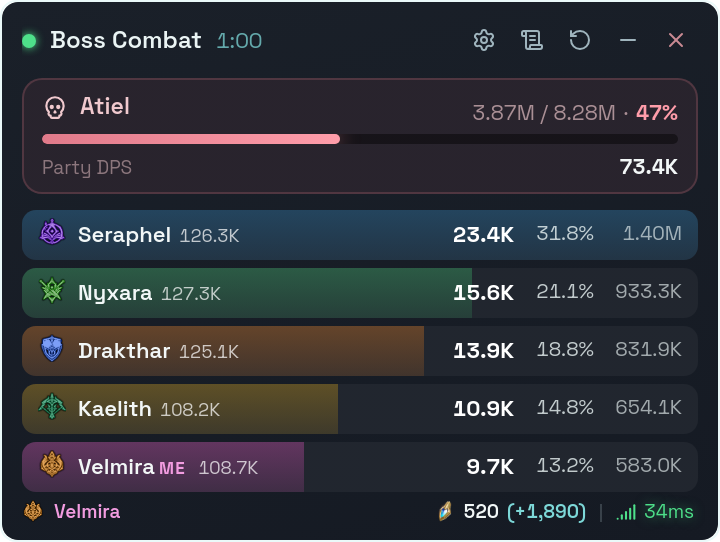
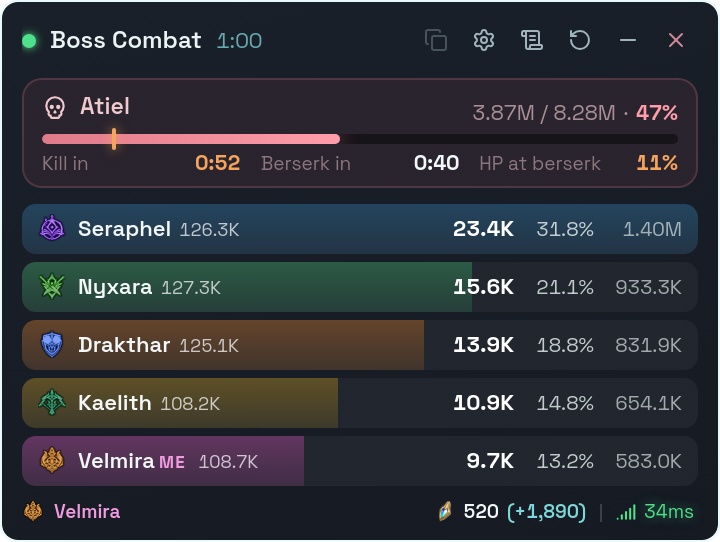
Update README.md to include berserk timer feature and enhance overlay image description

diff --git a/README.md b/README.md
@@ -17,6 +17,7 @@ Live overlay in game · one-click logs on abysslogs.com · all six regions · fr
 
 - **Live DPS bars** with class, combat power or gear score, and share of damage
 - **Boss HP and party DPS** on the boss card
+- **Berserk timer**: kill time against the boss's berserk, and its HP when berserk hits
 - **eDPS or aDPS**: the whole fight, or active time only
 - **Player breakdown**: targets, skills, crit, back, front, parry, perfect, double and multi-hit rates
 - **Skill Spy**: the specialities behind every skill
@@ -28,7 +29,9 @@ Live overlay in game · one-click logs on abysslogs.com · all six regions · fr
 - **Fight history** on your PC, dungeon runs grouped, searchable by player and dungeon
 - **Party only** and **boss only** capture
 - **Hotkeys** to hide the overlay and reset the fight
+- **Fight summary** copied as text for party chat, by button or hotkey
 - **Focus mode, opacity and UI scale** up to 200%
+- **Hide player names** for streaming: everyone else shows as their class
 - **Footer** with your character, Odyle Energy and ping
 - **Nine languages, six regions**, and it works through VPNs and ping reducers
 - **One-click updates** with the changelog built in
@@ -46,7 +49,7 @@ Live overlay in game · one-click logs on abysslogs.com · all six regions · fr
 
 <table>
   <tr>
-    <td width="50%" valign="top"><img src="assets/meter-overlay.png" alt="The meter's live DPS bars during a boss fight"><br><sub>In the meter: live DPS bars</sub></td>
+    <td width="50%" valign="top"><img src="assets/meter-overlay.png" alt="The meter's live DPS bars during a boss fight"><br><sub>In the meter: live DPS bars and the berserk timer</sub></td>
     <td width="50%" valign="top"><img src="assets/meter-timeline.png" alt="The meter's skill timeline"><br><sub>In the meter: the skill timeline against the boss's HP</sub></td>
   </tr>
   <tr>
